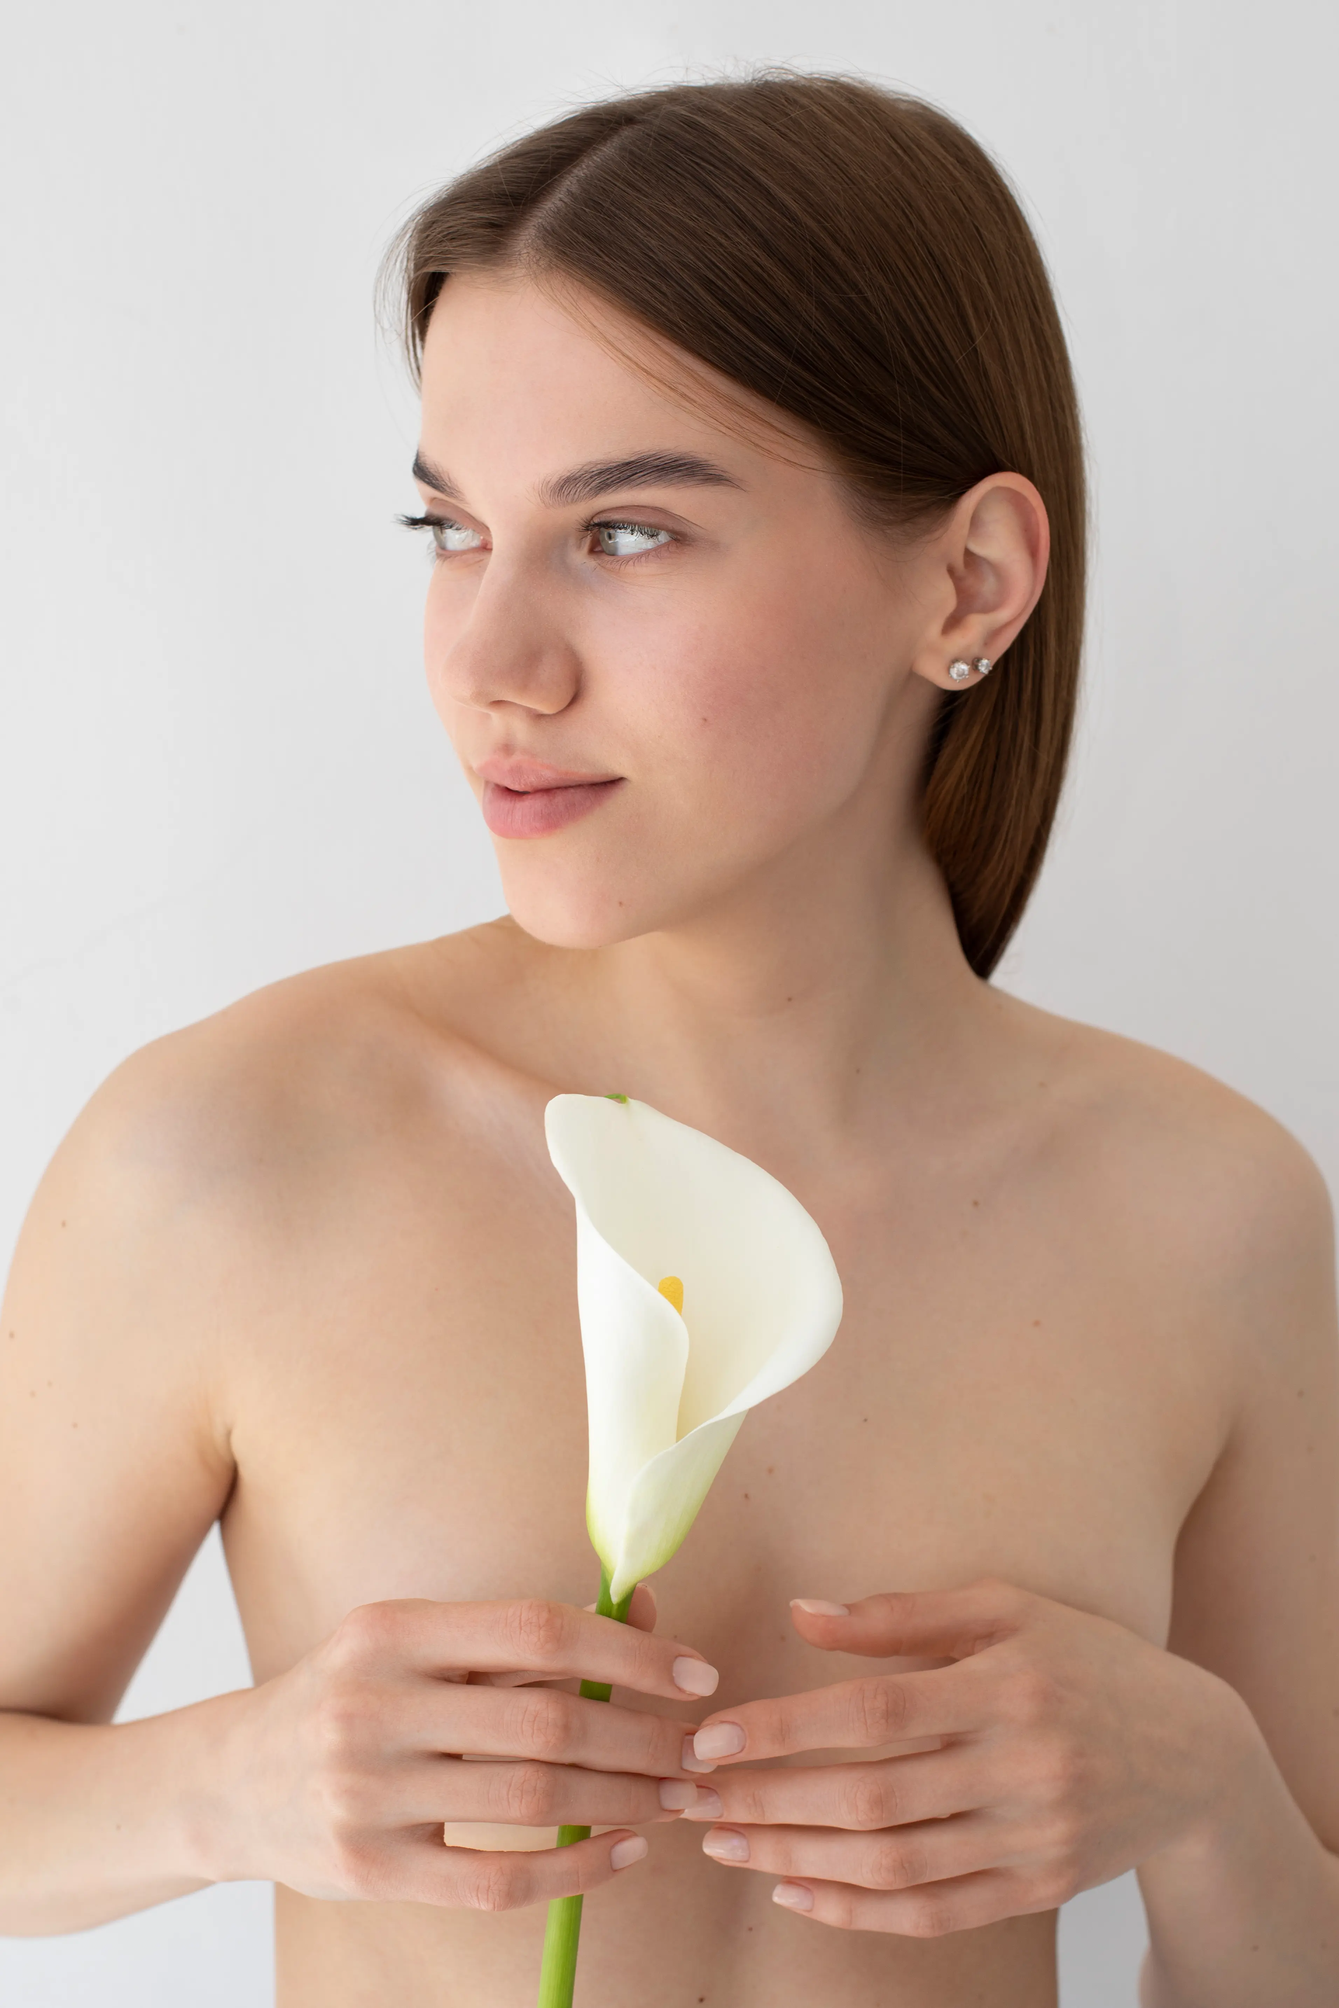
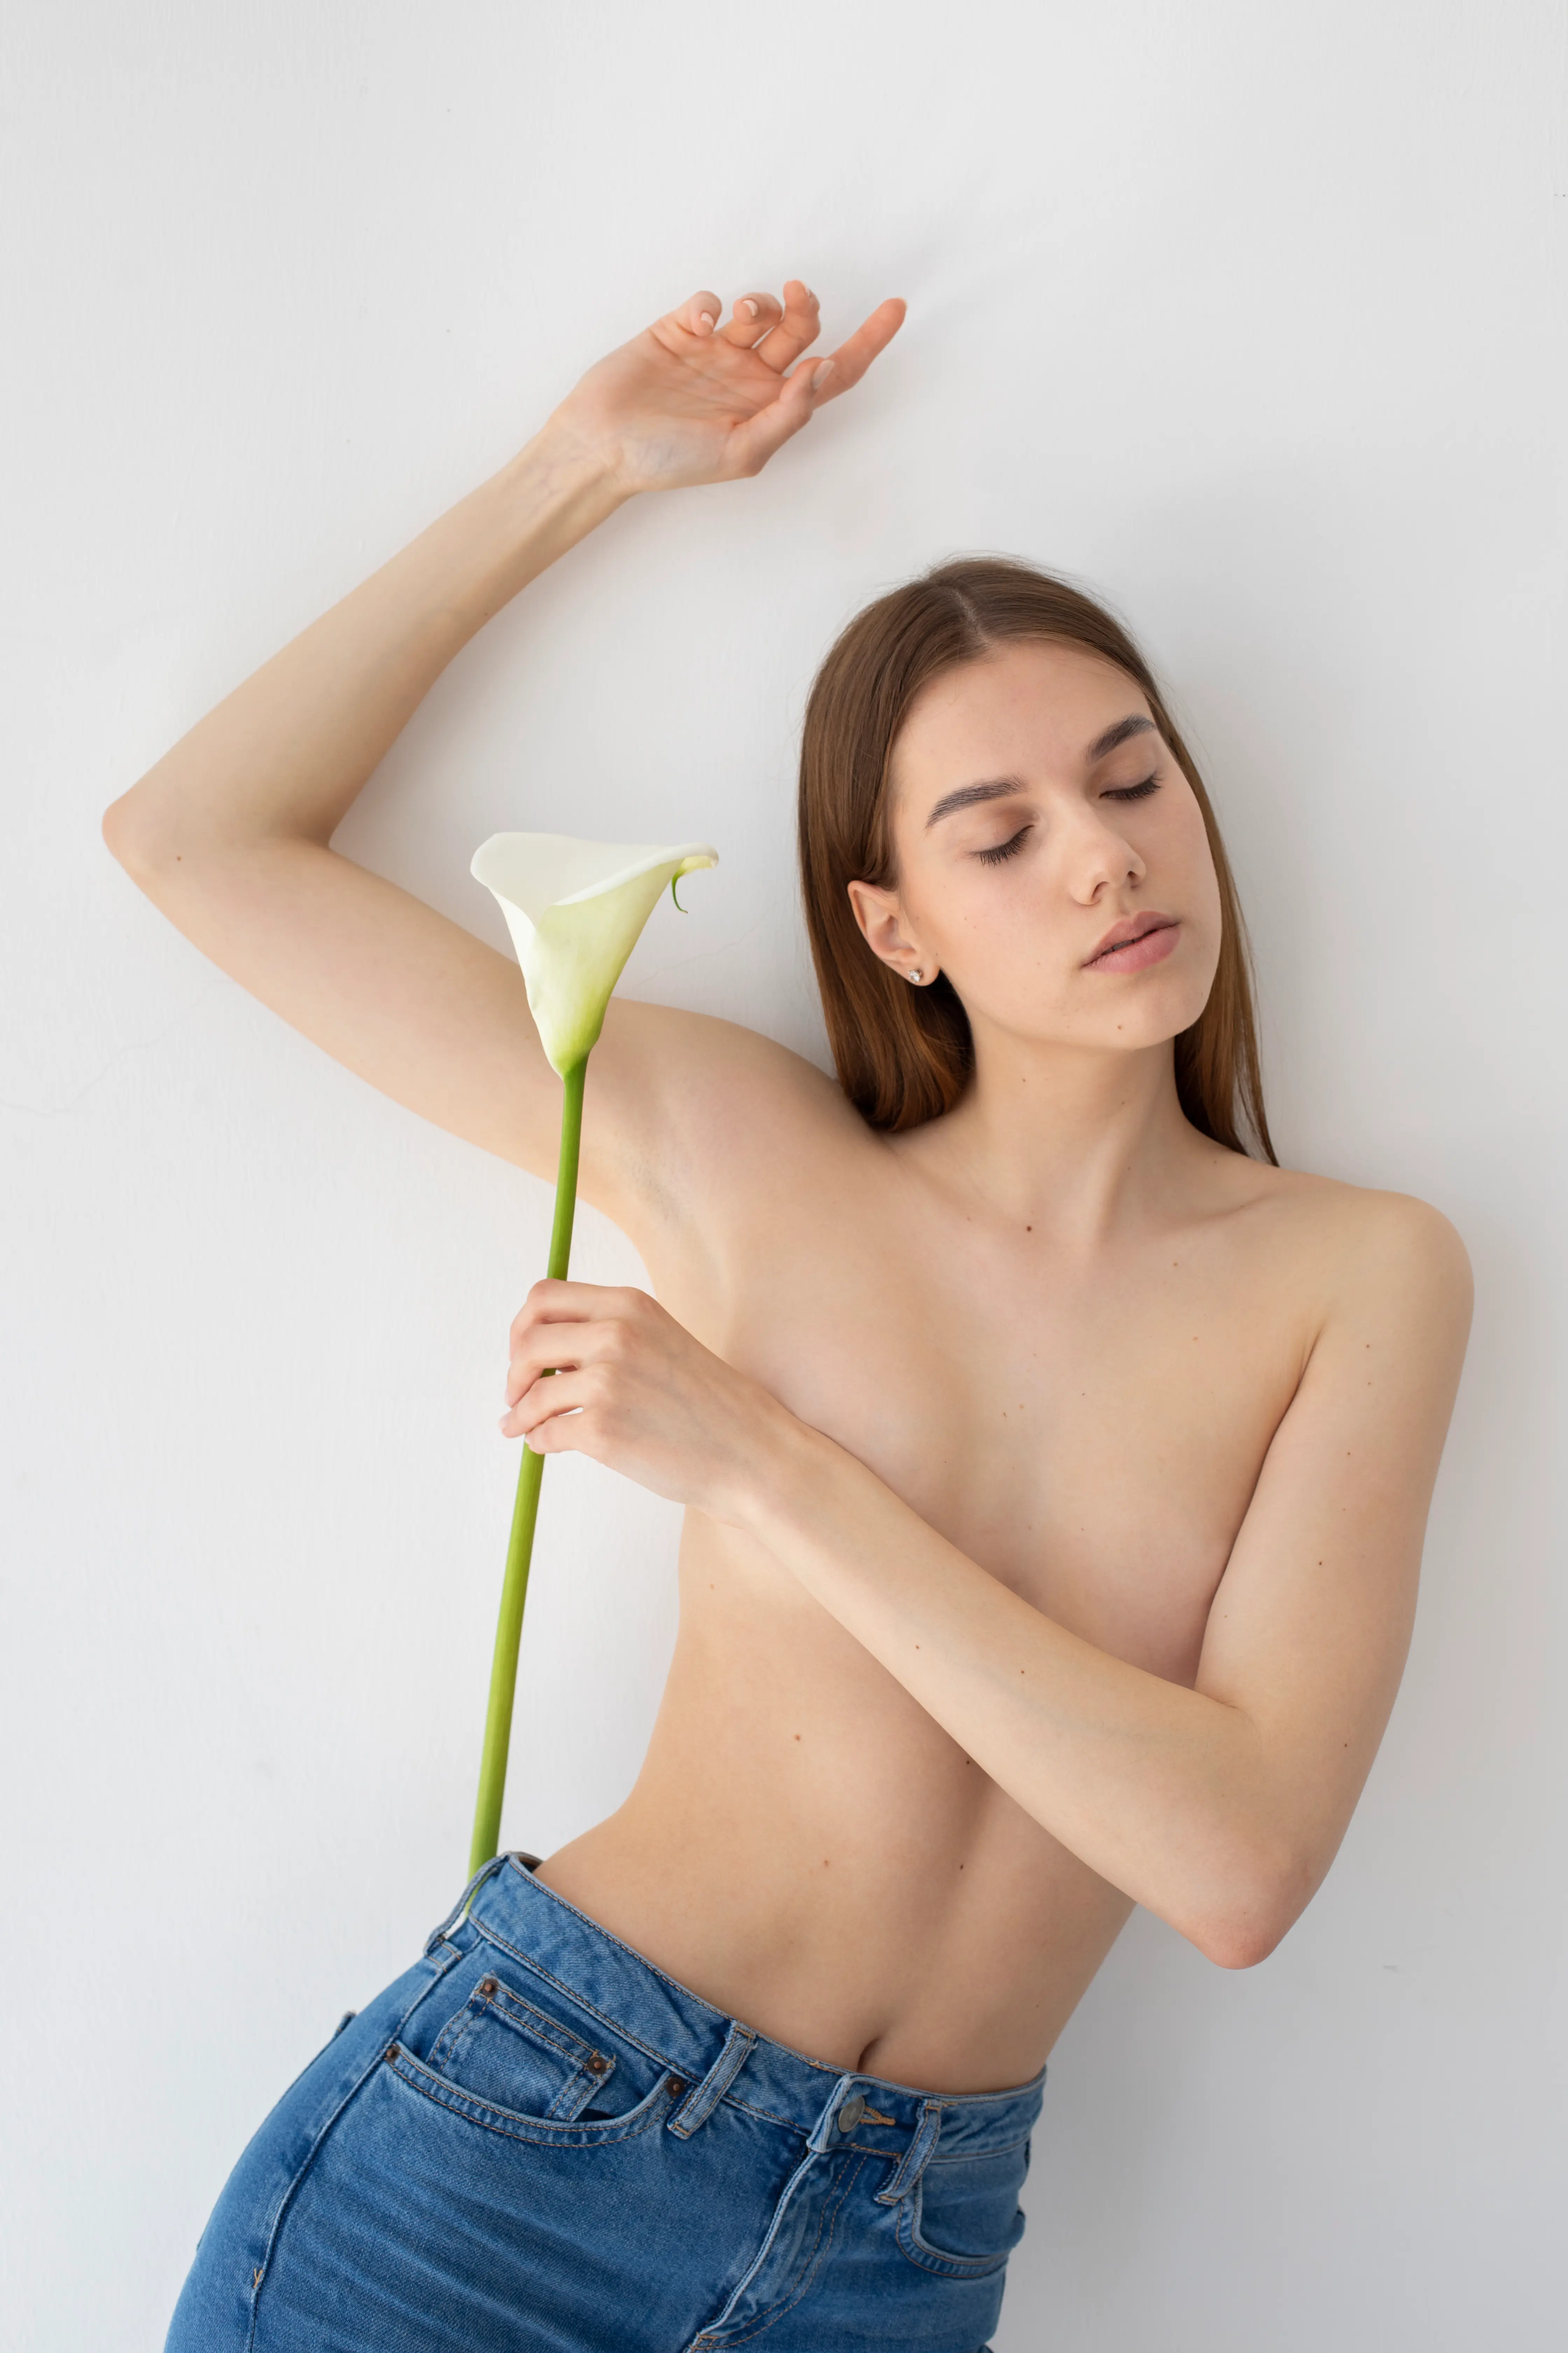
contraindications

diff --git a/src/components/Aftercare.jsx b/src/components/Aftercare.jsx
@@ -28,12 +28,18 @@ function Aftercare() {
   const mapLanguage = isRussian ? "ru" : "en";
   const beforecareImage = isRussian ? "/before-ru.webp" : "/before.webp";
   const aftercareImage = isRussian ? "/after-ru.webp" : "/after.webp";
+  const contraindicationImage = isRussian
+    ? "/contraindication-ru.webp"
+    : "/contraindication.webp";
   const beforecareAlt = isRussian
     ? "Рекомендации перед электроэпиляцией"
     : "Recommendations before electrolysis";
   const aftercareAlt = isRussian
     ? "Рекомендации после электроэпиляции"
     : "Recommendations after electrolysis";
+  const contraindicationAlt = isRussian
+    ? "Противопоказания к электроэпиляции"
+    : "Electrolysis contraindications";
 
   const [lead, ...rawTips] = lines;
   const tips = rawTips.map((tip) => tip.replace(/^[•-]\s*/, ""));
@@ -107,7 +113,7 @@ function Aftercare() {
               </motion.ul>
             )}
             <MotionDiv
-              className="mt-8 grid grid-cols-1 gap-4 md:grid-cols-2"
+              className="mt-8 grid grid-cols-1 gap-4 md:grid-cols-3"
               variants={{
                 hidden: {},
                 show: { transition: { staggerChildren: 0.14 } },
@@ -144,6 +150,23 @@ function Aftercare() {
                 <img
                   src={aftercareImage}
                   alt={aftercareAlt}
+                  className="w-full rounded-lg object-contain transition-transform duration-500 ease-out hover:scale-[1.015]"
+                />
+              </motion.div>
+              <motion.div
+                className="overflow-hidden rounded-lg"
+                variants={{
+                  hidden: { opacity: 0, y: 30 },
+                  show: {
+                    opacity: 1,
+                    y: 0,
+                    transition: { duration: 0.9, ease: [0.22, 1, 0.36, 1] },
+                  },
+                }}
+              >
+                <img
+                  src={contraindicationImage}
+                  alt={contraindicationAlt}
                   className="w-full rounded-lg object-contain transition-transform duration-500 ease-out hover:scale-[1.015]"
                 />
               </motion.div>

diff --git a/src/components/Header.jsx b/src/components/Header.jsx
@@ -108,8 +108,14 @@ function Header() {
         </button>
       </div>
 
-      {isMenuOpen && (
-        <div className="border-t border-softBrown/10 bg-white px-4 py-4 md:hidden">
+      <div
+        className={`absolute left-0 right-0 top-full z-40 border-t border-softBrown/10 bg-white px-4 py-4 shadow-lg transition-all duration-300 ease-out md:hidden ${
+          isMenuOpen
+            ? "pointer-events-auto translate-y-0 scale-y-100 opacity-100"
+            : "pointer-events-none -translate-y-2 scale-y-95 opacity-0"
+        }`}
+        aria-hidden={!isMenuOpen}
+      >
           <nav className="mb-4 flex flex-col gap-3">
             {NAV_ITEMS.map((item) => (
               <a
@@ -132,9 +138,7 @@ function Header() {
               {`${language.toUpperCase()} → ${nextLanguage.toUpperCase()}`}
             </button>
           </div>
-
-        </div>
-      )}
+      </div>
     </header>
   );
 }
